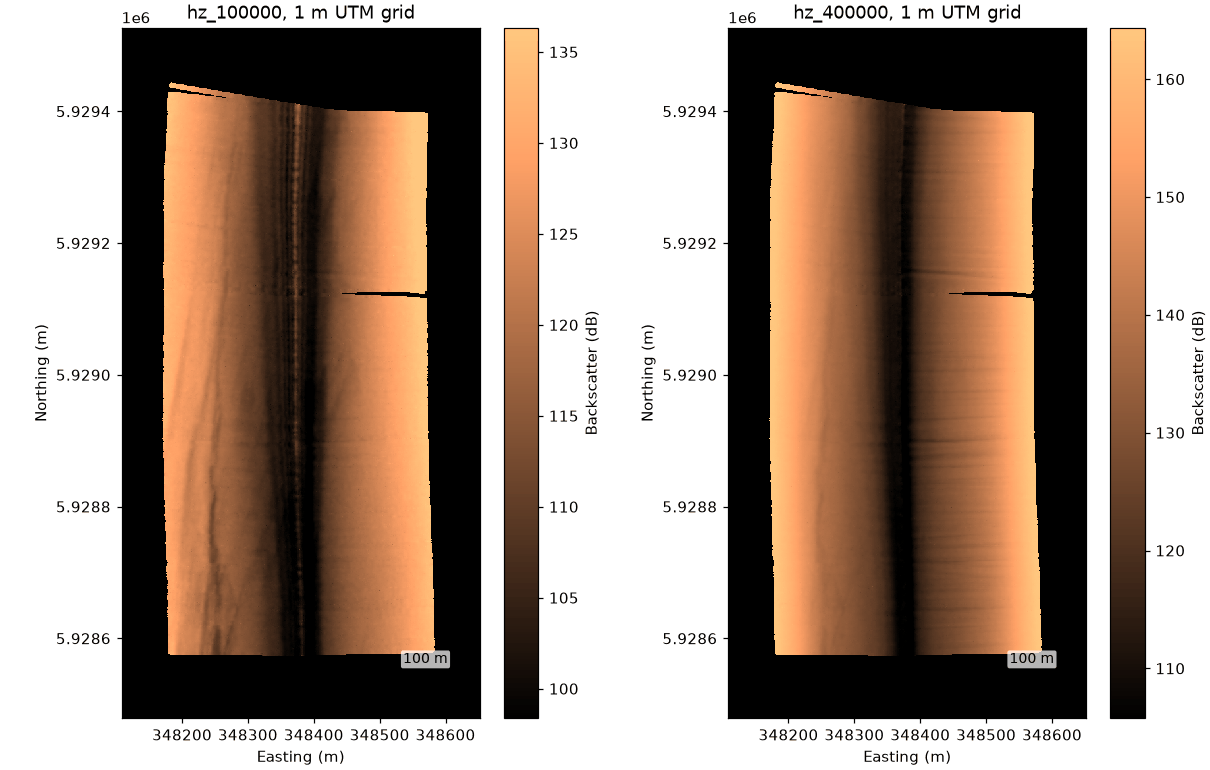
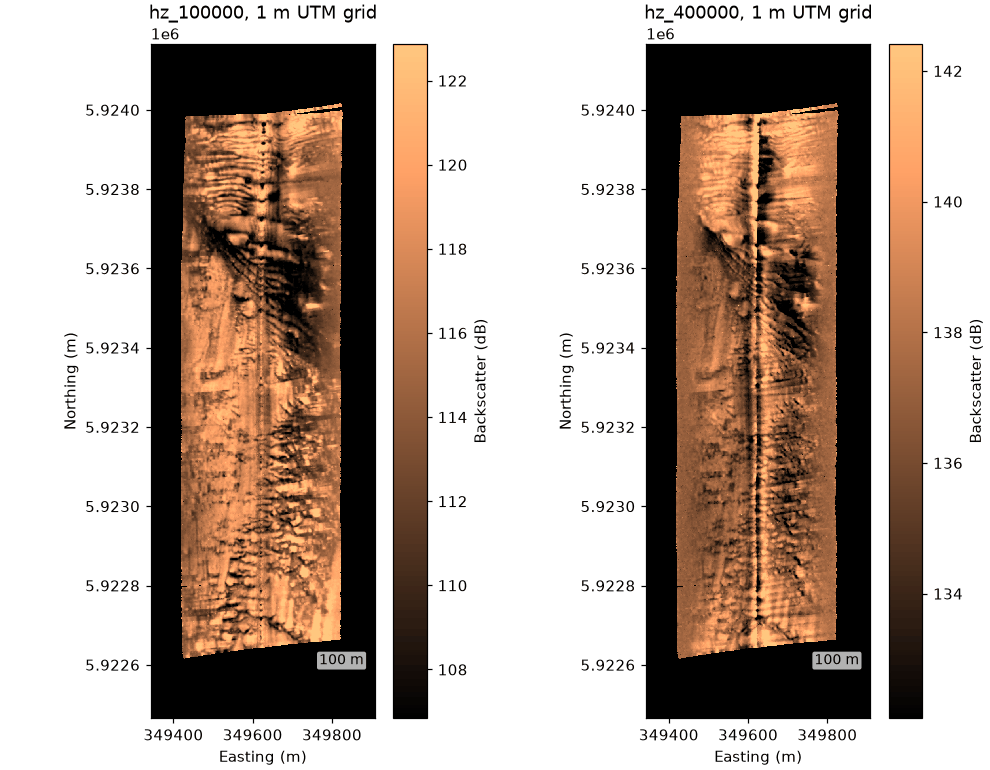
docs(examples): fix double dB conversion, use more varied lines
apply_tvg already returns dB; the gallery converted it again, which
squeezed the corrected images into ~2 dB. Plot it as is, average samples
to screen resolution, fit and apply the range correction, and switch the
map and three-format figures to lines with visible seabed features.

diff --git a/examples/gallery/correct_a_line.py b/examples/gallery/correct_a_line.py
@@ -1,10 +1,13 @@
 """
-Correct a line: altitude from the bottom track, TVG, slant to ground range.
+Correct a line: altitude from the bottom track, TVG, ground range, and an
+empirical range correction.
 
 The JNCC Wight-Barfleur EdgeTech line records no altitude, so the
 ``bottom_track`` step picks it from the first seabed return before the
-geometric step needs it. The figure shows the 521 kHz channel raw (slant
-range) and corrected (ground range, along-track metres).
+geometric step needs it. TVG leaves some brightness that still depends on
+range; ``fit_range_correction`` measures it from the line itself and the
+``range_correction`` step removes it. The figure shows the 521 kHz channel
+raw, after TVG, and after the range correction.
 
 Usage:
     python examples/gallery/correct_a_line.py [output_dir]
@@ -21,19 +24,19 @@ matplotlib.use("Agg")
 import matplotlib.pyplot as plt
 
 from sidescanpy import datasets
-from sidescanpy.core.units import linear_to_db
 from sidescanpy.io import read_and_convert
 from sidescanpy.log import configure_logging
-from sidescanpy.processing import compute_geometric_ranges, correct_survey, slice_by_range
+from sidescanpy.processing import compute_geometric_ranges, correct_survey
+from sidescanpy.processing.range_correction import RangeCorrectionTable, fit_range_correction
 from sidescanpy.viz import plot_waterfall
 
 out = Path(sys.argv[1]) if len(sys.argv) > 1 else Path(".")
 out.mkdir(parents=True, exist_ok=True)
 configure_logging("INFO")
+FREQ = "hz_521000"
 
 survey = read_and_convert([datasets.fetch("jncc_wight_barfleur_20130321174522.jsf")], fmt="jsf")
-raw = compute_geometric_ranges(survey.get_frequency("hz_521000").dataset.copy(deep=True))
-raw = slice_by_range(raw, max_m=150)
+raw = compute_geometric_ranges(survey.get_frequency(FREQ).dataset.copy(deep=True))
 
 # Each step is optional and recorded in processing_history with its
 # parameters. Leave a step out to skip it, or pass your own function.
@@ -41,15 +44,29 @@ survey = correct_survey(
     survey,
     steps=["interpolate_aux", "bottom_track", "tvg", "geometric", "georef"],
 )
-corrected = slice_by_range(survey.get_frequency("hz_521000").dataset, max_m=150)
-print(f"altitude from bottom track: {float(corrected['altitude_m'].median()):.1f} m (median)")
+tvg = survey.get_frequency(FREQ).dataset
+print(f"altitude from bottom track: {float(tvg['altitude_m'].median()):.1f} m (median)")
 
-fig, (ax_raw, ax_cor) = plt.subplots(1, 2, figsize=(12, 5), constrained_layout=True)
-plot_waterfall(raw, x_axis="slant_range", gamma=0.5, ax=ax_raw, title="Raw (slant range)")
-# Look at the corrected intensities in dB. After TVG most of the seabed
-# sits within a few dB, so stretch the colour scale over the 10th to
-# 99.5th percentile.
-corrected = corrected.assign(backscatter_db=linear_to_db(corrected["backscatter_intensity"]))
-plot_waterfall(corrected, x_axis="across_track", y_axis="along_track", value_var="backscatter_db",
-               vmin_pct=10, vmax_pct=99.5, ax=ax_cor, title="Bottom track + TVG + ground range (dB)")
+# Fit the leftover range dependence per frequency, then remove it.
+table = RangeCorrectionTable()
+for freq_key in survey.frequencies:
+    ds = survey.get_frequency(freq_key).dataset
+    table.add_curve(ds.attrs["freq_hz_start"], *fit_range_correction(ds))
+survey = correct_survey(survey, steps=["range_correction"], params={"range_correction": {"table": table}})
+flat = survey.get_frequency(FREQ).dataset
+
+
+def for_display(ds):
+    """Average samples down to about 1000 per side, near screen resolution."""
+    return ds.coarsen(sample=max(1, ds.sizes["sample"] // 1000), boundary="trim").mean()
+
+
+# After TVG, backscatter_intensity is in dB.
+fig, axes = plt.subplots(1, 3, figsize=(16, 5.5), constrained_layout=True)
+plot_waterfall(for_display(raw), x_axis="slant_range", gamma=0.5, ax=axes[0],
+               title="Raw (slant range)")
+plot_waterfall(for_display(tvg), x_axis="across_track", y_axis="along_track",
+               vmin_pct=2, vmax_pct=99.5, ax=axes[1], title="Bottom track + TVG + ground range")
+plot_waterfall(for_display(flat), x_axis="across_track", y_axis="along_track",
+               vmin_pct=2, vmax_pct=99.5, ax=axes[2], title="+ range correction")
 fig.savefig(out / "correct_a_line.png", dpi=110)

diff --git a/examples/gallery/three_formats.py b/examples/gallery/three_formats.py
@@ -2,8 +2,11 @@
 One data model, any format: the same code on three sonars and writers.
 
 EdgeTech JSF (Discover), Benthos XTF (Isis) and Klein XTF (SonarPro),
-each read, TVG-corrected and plotted with identical calls. The JNCC line
-was also written by Discover as XTF; both readers return the same samples.
+each read, corrected to ground range and plotted with identical calls.
+The Klein file's recorded altitude is far off (tens of metres in a
+shallow estuary), so ``bottom_track`` also replaces altitudes that
+disagree with the tracked one by more than 5 m. The JNCC line was also
+written by Discover as XTF; both readers return the same samples.
 
 Usage:
     python examples/gallery/three_formats.py [output_dir]
@@ -21,10 +24,10 @@ import matplotlib.pyplot as plt
 import numpy as np
 
 from sidescanpy import datasets
-from sidescanpy.core.units import linear_to_db
 from sidescanpy.io import read_and_convert
 from sidescanpy.log import configure_logging
-from sidescanpy.processing import compute_geometric_ranges, correct_survey
+from sidescanpy.processing import correct_survey
+from sidescanpy.processing.range_correction import RangeCorrectionTable, fit_range_correction
 from sidescanpy.viz import plot_waterfall
 
 out = Path(sys.argv[1]) if len(sys.argv) > 1 else Path(".")
@@ -32,18 +35,29 @@ out.mkdir(parents=True, exist_ok=True)
 configure_logging("INFO")
 
 lines = [
-    ("jncc_wight_barfleur_20130321174522.jsf", "jsf", "hz_218740", "EdgeTech JSF (Discover)"),
-    ("jncc_mid_irish_sea_MIS11_0.xtf", "xtf", "hz_100000", "Benthos XTF (Isis)"),
-    ("usgs_grand_bay_150602205800.xtf", "xtf", "hz_100000", "Klein XTF (SonarPro)"),
+    ("jncc_wight_barfleur_20130321174522.jsf", "jsf", "hz_521000", "EdgeTech JSF (Discover)"),
+    ("jncc_mid_irish_sea_MIS15_2.xtf", "xtf", "hz_400000", "Benthos XTF (Isis)"),
+    ("usgs_grand_bay_150602133300.xtf", "xtf", "hz_100000", "Klein XTF (SonarPro)"),
 ]
-fig, axes = plt.subplots(1, 3, figsize=(15, 5), constrained_layout=True)
+fig, axes = plt.subplots(1, 3, figsize=(16, 6), constrained_layout=True)
 for ax, (name, fmt, freq_key, label) in zip(axes, lines):
     survey = read_and_convert([datasets.fetch(name)], fmt=fmt)
-    survey = correct_survey(survey, steps=["tvg"])
-    ds = compute_geometric_ranges(survey.get_frequency(freq_key).dataset)
-    ds = ds.assign(backscatter_db=linear_to_db(ds["backscatter_intensity"]))
-    plot_waterfall(ds, x_axis="slant_range", value_var="backscatter_db",
-                   vmin_pct=10, vmax_pct=99.5, ax=ax, title=f"{label}, {freq_key}")
+    survey = correct_survey(
+        survey,
+        steps=["interpolate_aux", "bottom_track", "tvg", "geometric"],
+        params={"bottom_track": {"max_diff_m": 5.0, "smooth_pings": 21}},
+    )
+    table = RangeCorrectionTable()
+    for key in survey.frequencies:
+        ds = survey.get_frequency(key).dataset
+        table.add_curve(ds.attrs["freq_hz_start"], *fit_range_correction(ds))
+    survey = correct_survey(survey, steps=["range_correction"],
+                            params={"range_correction": {"table": table}})
+    ds = survey.get_frequency(freq_key).dataset
+    # Average samples down to about 1000 per side for display (values are dB).
+    ds = ds.coarsen(sample=max(1, ds.sizes["sample"] // 1000), boundary="trim").mean()
+    plot_waterfall(ds, x_axis="across_track", y_axis="along_track",
+                   vmin_pct=2, vmax_pct=99.5, ax=ax, title=f"{label}, {freq_key}")
 fig.savefig(out / "three_formats.png", dpi=110)
 
 # The same pings, written by EdgeTech Discover once as JSF and once as XTF.

diff --git a/examples/gallery/grid_to_a_map.py b/examples/gallery/grid_to_a_map.py
@@ -3,8 +3,9 @@ Grid a corrected line onto a UTM map and write a GeoTIFF.
 
 Uses a Benthos SIS-1624 line (XTF written by Isis) from the UK JNCC
 mid-Irish Sea survey, which records altitude and navigation, so the
-default correction steps are enough. Needs the ``geo`` extra for the
-GeoTIFF.
+default correction steps are enough; an empirical range correction fitted
+from the line evens out brightness across the swath. Needs the ``geo``
+extra for the GeoTIFF.
 
 Usage:
     python examples/gallery/grid_to_a_map.py [output_dir]
@@ -25,20 +26,27 @@ from sidescanpy.grids import grid_channel, to_geotiff
 from sidescanpy.io import read_and_convert
 from sidescanpy.log import configure_logging
 from sidescanpy.processing import correct_survey, slice_by_range
+from sidescanpy.processing.range_correction import RangeCorrectionTable, fit_range_correction
 from sidescanpy.viz import plot_gridded_raster
 
 out = Path(sys.argv[1]) if len(sys.argv) > 1 else Path(".")
 out.mkdir(parents=True, exist_ok=True)
 configure_logging("INFO")
 
-survey = read_and_convert([datasets.fetch("jncc_mid_irish_sea_MIS11_0.xtf")], fmt="xtf")
+survey = read_and_convert([datasets.fetch("jncc_mid_irish_sea_MIS15_2.xtf")], fmt="xtf")
 survey = correct_survey(survey)  # interpolate_aux, tvg, geometric, georef
 
-# Grid each frequency at 1 m, leaving out the water column. Pings are
-# about 0.65 m apart, but heading jitter and a few longer jumps between
-# fixes leave empty cells; inverse-distance weighting with a 4 m search
-# radius fills them from the nearest samples.
-fig, axes = plt.subplots(1, 2, figsize=(11, 7), constrained_layout=True)
+table = RangeCorrectionTable()
+for freq_key in survey.frequencies:
+    ds = survey.get_frequency(freq_key).dataset
+    table.add_curve(ds.attrs["freq_hz_start"], *fit_range_correction(ds))
+survey = correct_survey(survey, steps=["range_correction"], params={"range_correction": {"table": table}})
+
+# Grid each frequency at 1 m, leaving out the water column. Heading jitter
+# and a few longer jumps between fixes leave empty cells between pings;
+# inverse-distance weighting with a 4 m search radius fills them from the
+# nearest samples.
+fig, axes = plt.subplots(1, 2, figsize=(9, 7), constrained_layout=True)
 for ax, freq_key in zip(axes, ["hz_100000", "hz_400000"]):
     ds = slice_by_range(survey.get_frequency(freq_key).dataset, min_m=5)
     raster = grid_channel(ds, resolution_m=1.0, method="idw", max_search_radius_m=4.0)

diff --git a/docs/examples/index.md b/docs/examples/index.md
@@ -7,8 +7,8 @@ on each page is the script in `examples/gallery/`, included as is.
 | Example | What it shows | Data |
 |---|---|---|
 | [Read a file](read_a_file.md) | Convert a raw JSF file, save `.ss.h5`, plot the waterfall | JNCC Wight-Barfleur, EdgeTech |
-| [Correct a line](correct_a_line.md) | Altitude from the bottom track, TVG, slant to ground range | JNCC Wight-Barfleur, EdgeTech |
-| [Grid to a map](grid_to_a_map.md) | Gridding to UTM, GeoTIFF output | JNCC mid-Irish Sea, Benthos |
+| [Correct a line](correct_a_line.md) | Altitude from the bottom track, TVG, ground range, range correction | JNCC Wight-Barfleur, EdgeTech |
+| [Grid to a map](grid_to_a_map.md) | Range correction, gridding to UTM, GeoTIFF output | JNCC mid-Irish Sea, Benthos |
 | [Three formats, one model](three_formats.md) | The same calls on EdgeTech JSF, Benthos XTF and Klein XTF | JNCC and USGS |
 
 [![Three sonars read with the same code](../assets/gallery/three_formats.png)](three_formats.md)
@@ -50,8 +50,10 @@ going online.
 | `jncc_wight_barfleur_20130321174522L.xtf` | 13 MB | The same pings, low frequency, as XTF (Discover 7.22) |
 | `jncc_mid_irish_sea_MIS11_0.xtf` | 41 MB | Benthos SIS-1624, XTF (Isis 7.0.41), 100 + 400 kHz |
 | `jncc_mid_irish_sea_MIS13_2.xtf` | 4 MB | The same sonar, a short line |
+| `jncc_mid_irish_sea_MIS15_2.xtf` | 54 MB | The same sonar, 100 + 400 kHz, over bedforms |
 | `usgs_grand_bay_150602205800.xtf` | 5 MB | Klein, XTF (KleinXlt 4.0 / SonarPro 12), shallow estuary |
 | `usgs_grand_bay_150531200100.xtf` | 12 MB | Klein, XTF; the recorded altitude is a lost bottom track |
+| `usgs_grand_bay_150602133300.xtf` | 16 MB | Klein, XTF (SonarPro), a sharp seabed edge; recorded altitude unusable |
 
 ## Sources and licences
 

diff --git a/docs/examples/three_formats.md b/docs/examples/three_formats.md
@@ -1,15 +1,24 @@
 # Three formats, one model
 
 Three sonars, three file formats or writers, the same code. Each line is
-read with `read_and_convert`, TVG-corrected with `correct_survey` and
-plotted with `plot_waterfall`; only the file name and format string
+read with `read_and_convert`, corrected with `correct_survey` (bottom
+track, TVG, ground range, range correction) and plotted with
+`plot_waterfall`; only the file name, format string and frequency
 change.
 
 ![Waterfalls from EdgeTech JSF, Benthos XTF and Klein XTF](../assets/gallery/three_formats.png)
 
-From left: EdgeTech (JSF written by Discover), Benthos SIS-1624 (XTF
-written by Isis) and Klein (XTF written by SonarPro), each in dB against
-slant range.
+From left: EdgeTech (JSF written by Discover) over bedforms and
+ridges, Benthos SIS-1624 (XTF written by Isis) over bedforms, and Klein
+(XTF written by SonarPro) along a sharp seabed edge in a shallow
+estuary, each in dB against across-track and along-track distance.
+
+The Klein file records an altitude of about 50 m in water a few metres
+deep, so `bottom_track` is told to replace any recorded altitude more
+than 5 m from the tracked one (`max_diff_m`) and to smooth the track
+over 21 pings. A few pings still track badly, which shows as white
+notches at the top of that panel; the bright horizontal dashes are in
+the recorded samples.
 
 ```python
 --8<-- "examples/gallery/three_formats.py"

diff --git a/docs/examples/correct_a_line.md b/docs/examples/correct_a_line.md
@@ -12,11 +12,19 @@ runs.
 
 ![Raw and corrected waterfall](../assets/gallery/correct_a_line.png)
 
-Left: raw amplitude against slant range. Right: after the bottom track,
-time-varying gain (spreading and absorption losses) and slant-to-ground
-range, against across-track and along-track distance in metres. The
-water column is gone, and the far range is no longer darker than the near
-range.
+Left: raw amplitude against slant range. Middle: after the bottom track,
+time-varying gain (TVG, spreading and absorption losses) and
+slant-to-ground range, in dB against across-track and along-track
+distance in metres; the water column is gone. Right: TVG leaves this
+line brighter at far range than near the towfish. `fit_range_correction`
+measures that leftover trend from the line itself, and the
+`range_correction` step removes it, which brings out the regular bedforms on
+both sides and the ridges port and starboard.
+
+After TVG, `backscatter_intensity` is in dB, so it is plotted as is. The
+JSF holds about 23,000 samples per side; averaging them down to about
+1000 for display (`xarray`'s `coarsen`) shows the seabed instead of the
+speckle.
 
 ```python
 --8<-- "examples/gallery/correct_a_line.py"

diff --git a/README.md b/README.md
@@ -11,9 +11,9 @@ Read, correct, grid and export sidescan sonar data.
 
 ![Raw and corrected waterfall of a public EdgeTech line](docs/assets/gallery/correct_a_line.png)
 
-*A public EdgeTech recording (UK JNCC, Open Government Licence), raw on
-the left and after the bottom-track, TVG and slant-to-ground-range steps
-on the right.*
+*A public EdgeTech recording (UK JNCC, Open Government Licence): raw,
+after the bottom-track, TVG and slant-to-ground-range steps, and after a
+range correction fitted from the line.*
 
 sidescanpy converts EdgeTech JSF, Klein SDF and XTF surveys into one
 `xarray`-based model, stored as a grouped HDF5 file (`.ss.h5`). On top of
@@ -159,7 +159,7 @@ downloads the data they use.
 
 ![The same code on EdgeTech JSF, Benthos XTF and Klein XTF recordings](docs/assets/gallery/three_formats.png)
 
-*Three sonars and writers read and TVG-corrected with the same calls:
+*Three sonars and writers read and corrected with the same calls:
 EdgeTech JSF, Benthos XTF (UK JNCC, Open Government Licence) and Klein
 XTF (USGS, public domain).*
 

diff --git a/docs/examples/grid_to_a_map.md b/docs/examples/grid_to_a_map.md
@@ -7,8 +7,9 @@ Once every sample has a latitude and longitude (the `georef` step),
 ![Gridded rasters of both frequencies](../assets/gallery/grid_to_a_map.png)
 
 One line of a Benthos SIS-1624 survey in the Irish Sea, 100 kHz and
-400 kHz, on 1 m grids. North is up; the dark stripe is the nadir under
-the towfish.
+400 kHz, on 1 m grids, after TVG and a range correction fitted from the
+line. Bedforms run across most of the swath. North is up; the stripe
+down the middle is the nadir under the towfish.
 
 ```python
 --8<-- "examples/gallery/grid_to_a_map.py"
@@ -16,8 +17,7 @@ the towfish.
 
 Navigation in this file is sample-and-hold: each position repeats for
 several pings until the next fix arrives. The `interpolate_aux` step
-interpolates between the real fixes, not the repeated entries, which
-puts the pings about 0.65 m apart. The GeoTIFF needs the `geo` extra
+interpolates between the real fixes, not the repeated entries. The GeoTIFF needs the `geo` extra
 (`rioxarray`).
 
 Data: JNCC mid-Irish Sea, Open Government Licence v3.0 (see

diff --git a/CHANGELOG.md b/CHANGELOG.md
@@ -83,6 +83,16 @@ Commits follow [Conventional Commits](https://www.conventionalcommits.org/).
 
 ### Fixed
 
+- `viz.plot_waterfall`: the automatic colour range (`vmin_pct` /
+  `vmax_pct`) is taken from the samples that are drawn. In ground-range and
+  across-track modes the water column (no ground range) is not drawn but
+  still set `vmin`, which washed out corrected waterfalls.
+- Gallery examples: corrected data was converted to dB a second time
+  (`apply_tvg` already returns dB), which compressed the images. They now
+  plot it as is, average samples to screen resolution, fit and apply the
+  range correction, and use more varied public lines
+  (`jncc_mid_irish_sea_MIS15_2.xtf`, `usgs_grand_bay_150602133300.xtf`,
+  added to `sidescanpy.datasets`).
 - `io.xtf`: samples are now multiplied by `2**-Weight` from each channel
   header. EdgeTech Discover writes raw block-floating-point samples with
   the JSF weighting factor in `Weight`, which can change from ping to ping,

diff --git a/docs/index.md b/docs/index.md
@@ -16,8 +16,9 @@ functions measure a dataset's units, nadir, usable range and TVG state.
 
 [![A raw and a corrected EdgeTech line](assets/gallery/correct_a_line.png)](examples/correct_a_line.md)
 
-*A public EdgeTech recording, raw (left) and after the bottom track, TVG
-and slant-to-ground-range steps (right). Code and data:
+*A public EdgeTech recording: raw (left), after the bottom track, TVG and
+slant-to-ground-range steps (middle), and after a range correction fitted
+from the line (right). Code and data:
 [Correct a line](examples/correct_a_line.md).*
 
 ## Quickstart
